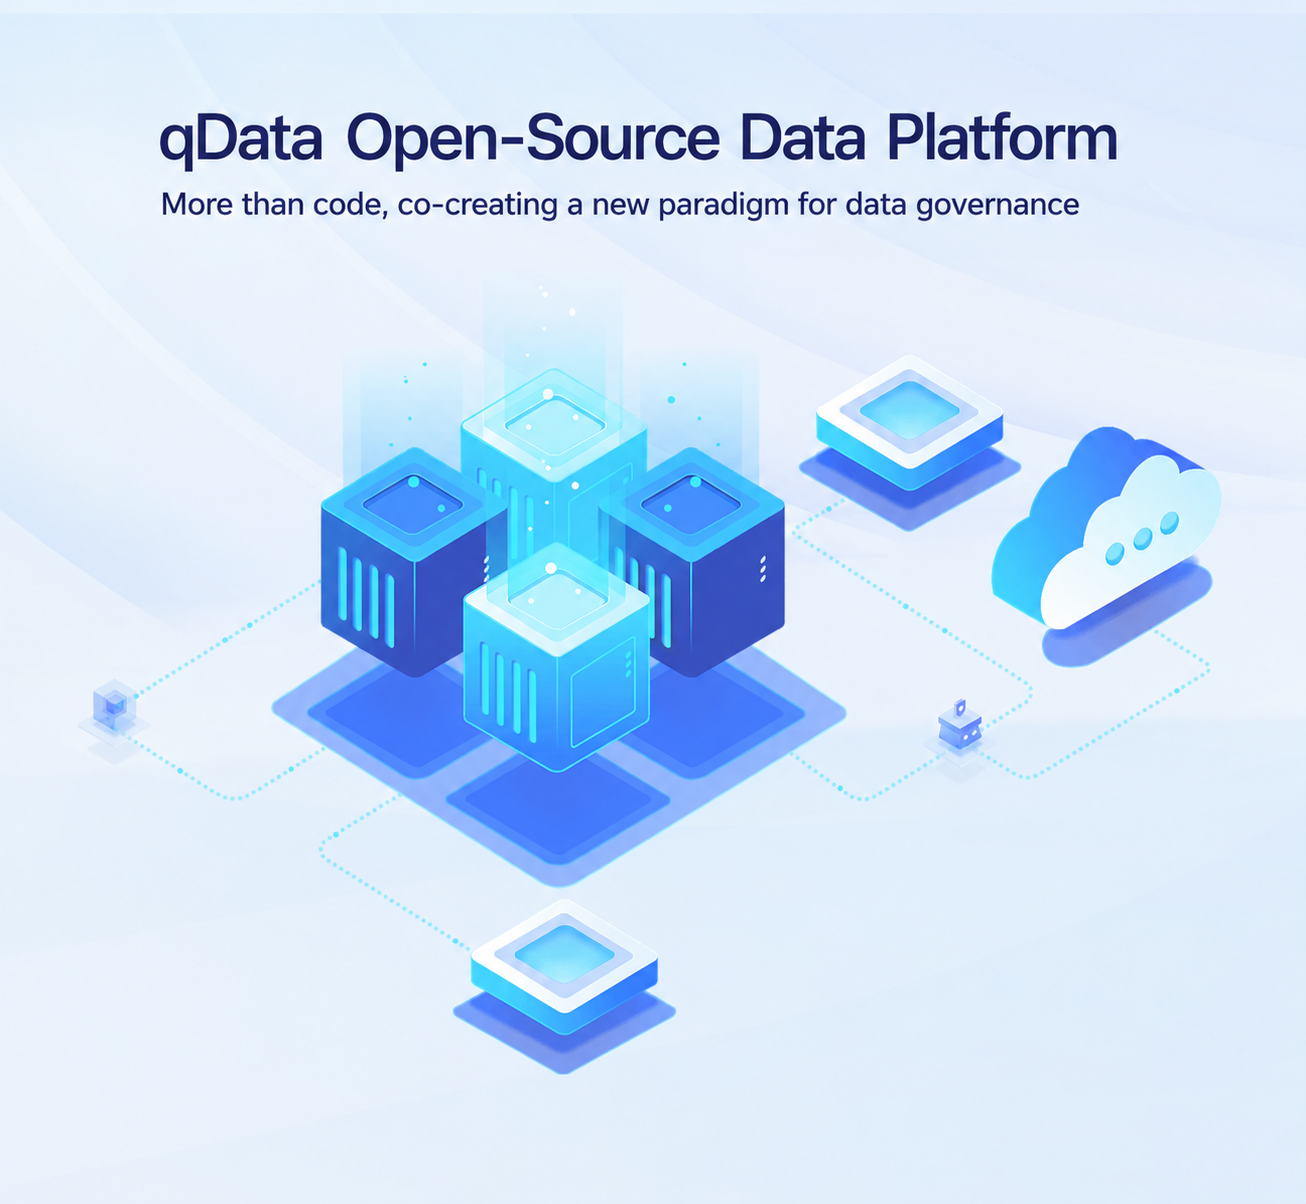
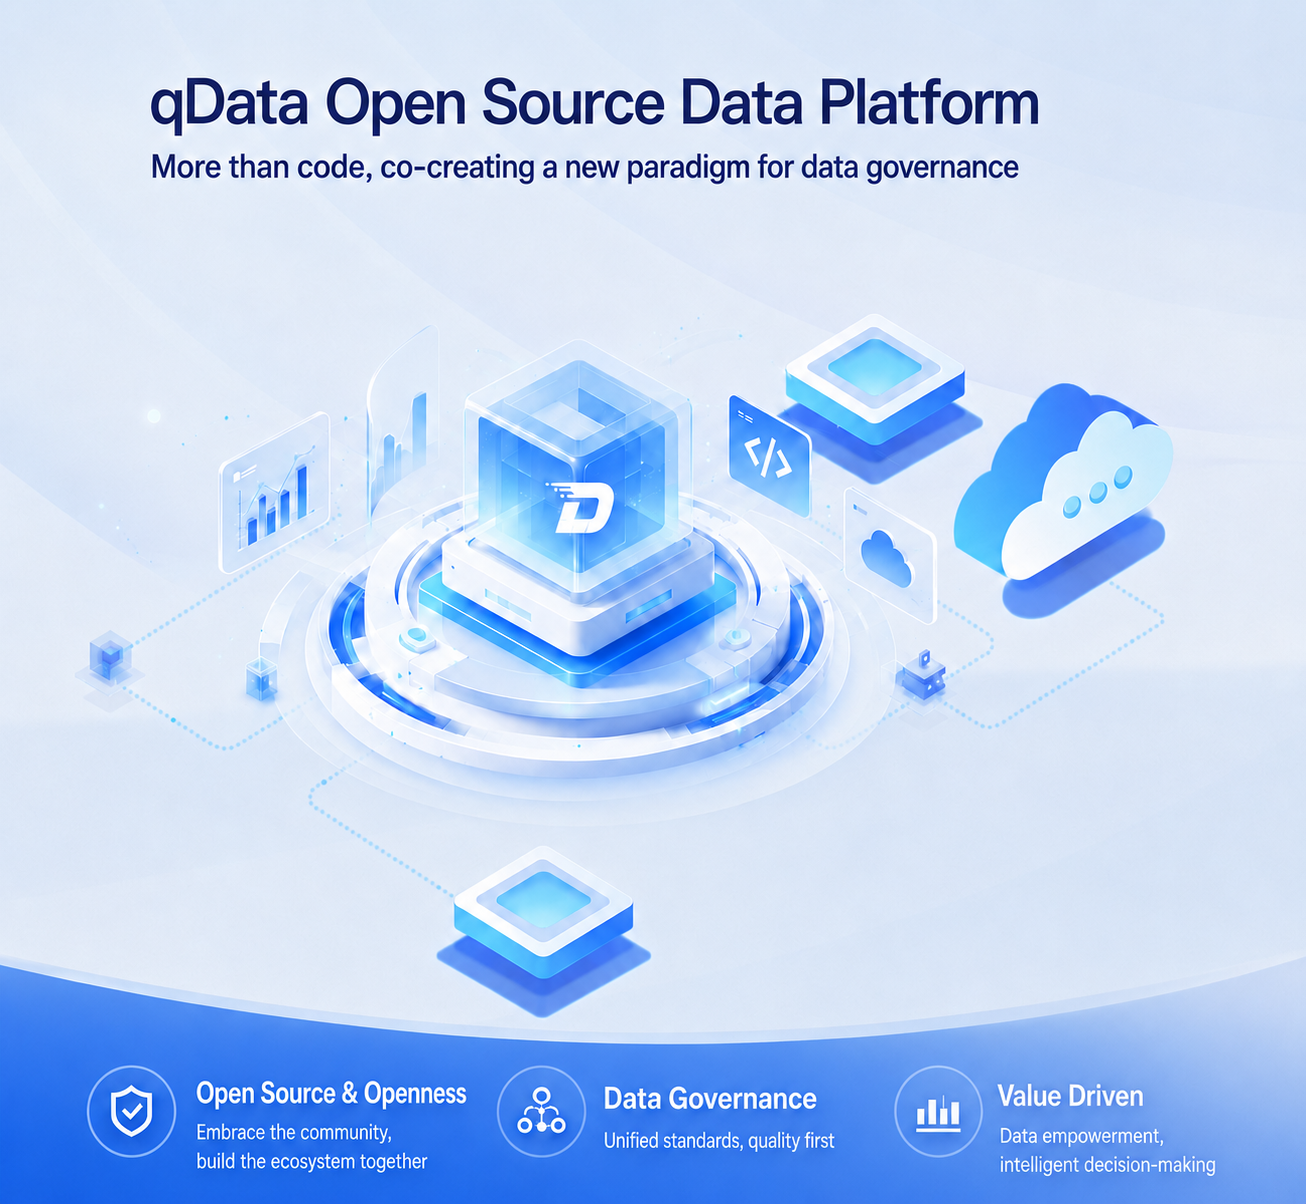
feature/i18n：更换登录banner、调整协议、topNav样式、增加logo动画

diff --git a/qdata-ui/src/layout/components/Sidebar/Logo.vue b/qdata-ui/src/layout/components/Sidebar/Logo.vue
@@ -34,7 +34,8 @@
         to="/"
       >
         <!--        <img v-if="logo" :src="simpLogo" class="sidebar-logo" />-->
-        <img v-if="logo" :src="displaySimpLogo" class="sidebar-logo" />
+        <img v-if="logo" :src="displaySimpLogo" ref="simpLogoRef" class="sidebar-logo"
+             :class="{ 'logo-animate': simpAnimate, 'logo-hover': simpHover }" @mouseenter="replaySimpHover"/>
         <h1
           v-else
           class="sidebar-title"
@@ -50,7 +51,8 @@
       </router-link>
       <router-link v-else key="expand" class="sidebar-logo-link" to="/">
         <!--        <img v-if="logo" :src="logo" class="sidebar-logo" /> -->
-        <img v-if="logo" :src="displayLogo" class="sidebar-logo" />
+        <img v-if="logo" :src="displayLogo" ref="logoRef" class="sidebar-logo"
+             :class="{ 'logo-animate': logoAnimate, 'logo-hover': logoHover }" @mouseenter="replayHover"/>
       </router-link>
     </transition>
   </div>
@@ -66,11 +68,37 @@ import useSettingsStore from "@/store/system/settings";
 import defaultSettings from "@/settings";
 import { getContent } from "@/api/system/system/content";
 
-import { computed } from "vue";
+import {computed, ref as vueRef, nextTick} from "vue";
 
 // 使用 ref 来创建响应式的 logo
 const refLogo = ref(null); // 初始化 logo 为 simpLogo.png
 const refSimpLogo = ref(null); // 初始化 logo 为 simpLogo.png
+
+// 动画控制
+const logoRef = vueRef(null);
+const simpLogoRef = vueRef(null);
+const logoAnimate = vueRef(true);
+const simpAnimate = vueRef(true);
+const logoHover = vueRef(false);
+const simpHover = vueRef(false);
+
+// 鼠标悬浮触发抖动动画（展开状态）
+const replayHover = () => {
+  logoHover.value = false;
+  nextTick(() => {
+    logoRef.value?.offsetWidth;
+    logoHover.value = true;
+  });
+};
+
+// 鼠标悬浮触发抖动动画（收缩状态）
+const replaySimpHover = () => {
+  simpHover.value = false;
+  nextTick(() => {
+    simpLogoRef.value?.offsetWidth;
+    simpHover.value = true;
+  });
+};
 
 const props = defineProps({
   collapse: {
@@ -154,6 +182,15 @@ const sideTheme = computed(() => settingsStore.sideTheme);
       // margin-right: 12px;
       transform: scale(0.7);
       margin-left: -30px;
+
+      &.logo-animate {
+        will-change: transform;
+        animation: logoEntrance 1.2s cubic-bezier(0.25, 0.46, 0.45, 0.94) forwards;
+      }
+
+      &.logo-hover {
+        animation: logoWobble 1s cubic-bezier(0.25, 0.46, 0.45, 0.94) forwards;
+      }
     }
 
     & .sidebar-title {
@@ -175,6 +212,40 @@ const sideTheme = computed(() => settingsStore.sideTheme);
       margin-right: 0px;
       margin-left: 0px;
     }
+  }
+}
+
+/* 入场动画：阶段1 淡入滑入+缩放 → 阶段2 缩放到位 → 阶段3 皮球回弹 */
+@keyframes logoEntrance {
+  /* 阶段1：从左淡入滑入，同时从小到大缩放 */
+  0% {
+    transform: translateX(-200px) scale(0.3);
+    opacity: 0;
+  }
+  35% {
+    transform: translateX(0) scale(0.4);
+    opacity: 1;
+  }
+  100% {
+    transform: translateY(0) scale(0.7);
+    opacity: 1;
+  }
+}
+
+/* 悬浮抖动动画：右往上左往下抖动三下 */
+@keyframes logoWobble {
+  /* 阶段1：从左淡入滑入，同时从小到大缩放 */
+  0% {
+    transform: translateX(-200px) scale(0.3);
+    opacity: 0;
+  }
+  35% {
+    transform: translateX(0) scale(0.4);
+    opacity: 1;
+  }
+  100% {
+    transform: translateY(0) scale(0.7);
+    opacity: 1;
   }
 }
 </style>

diff --git a/qdata-ui/src/views/sys/index.vue b/qdata-ui/src/views/sys/index.vue
@@ -174,7 +174,7 @@
     </el-row>
 
     <!-- License 协议弹窗 -->
-<!--    <el-dialog
+    <el-dialog
       v-model="licenseDialogVisible"
       :title="td('common.license.title')"
       :close-on-click-modal="false"
@@ -185,9 +185,9 @@
         <pre>{{ td('common.license.text') }}</pre>
       </div>
       <template #footer>
-        <el-button type="primary" @click="handleLicenseClose">{{ td('common.button.confirm') }}</el-button>
+        <el-button type="primary" @click="handleLicenseClose">{{ td('common.button.aware') }}</el-button>
       </template>
-    </el-dialog>-->
+    </el-dialog>
   </div>
 </template>
 
@@ -1240,6 +1240,10 @@ onMounted(() => {
       display: none;
     }
   }
+
+  :deep(.el-dialog__body) {
+    padding: 20px !important;
+  }
 }
 
 .module-4,
@@ -1883,10 +1887,8 @@ onMounted(() => {
 }
 
 .license-content {
-  padding: 16px;
-  background: #f8f9fa;
+  background: white;
   border-radius: 4px;
-  border: 1px solid #e8e8e8;
 
   pre {
     white-space: pre-wrap;

diff --git a/qdata-ui/src/components/TopNav/index.vue b/qdata-ui/src/components/TopNav/index.vue
@@ -433,6 +433,7 @@ defineExpose({
   padding: 0 15px !important;
   margin: 0 10px !important;
   border-radius: 5px;
+  font-weight: bold !important;
 }
 
 /* sub-menu item */
@@ -445,6 +446,7 @@ defineExpose({
   padding: 0 15px !important;
   margin: 0 10px !important;
   border-radius: 5px;
+  font-weight: bold !important;
 }
 
 .topmenu-container.el-menu--horizontal > .el-menu-item.is-active,
@@ -478,6 +480,7 @@ defineExpose({
 .el-menu--horizontal .el-menu .el-menu-item {
   height: 40px !important;
   line-height: 40px !important;
+  font-weight: bold !important;
 
   .svg-icon {
     margin-right: 10px;

diff --git a/qdata-ui/src/views/sys/login.vue b/qdata-ui/src/views/sys/login.vue
@@ -297,7 +297,7 @@ const loginimglist = ref([]);
 
 const getBackgroundStyle = (item) => {
     return {
-        background: `url(${item.image}) center center / cover no-repeat`,
+        background: `url(${item.image}) center center / 100% 100% no-repeat`,
     };
 };
 

diff --git a/qdata-ui/src/locales/ja-JP/common/index.js b/qdata-ui/src/locales/ja-JP/common/index.js
@@ -54,7 +54,8 @@ export default {
     update: '編集',
     upload: 'アップロード',
     neverShow: '今後表示しない',
-    view: '表示'
+    view: '表示',
+    aware:'承知しました'
   },
   error: {
     code401: '401エラー！',

diff --git a/qdata-ui/src/locales/zh-CN/common/index.js b/qdata-ui/src/locales/zh-CN/common/index.js
@@ -54,7 +54,8 @@ export default {
     update: '修改',
     upload: '上传',
     neverShow: '不再展示',
-    view: '查看'
+    view: '查看',
+    aware:'我已知晓'
   },
   error: {
     code401: '认证失败，无法访问系统资源',

diff --git a/qdata-ui/src/locales/en-US/common/index.js b/qdata-ui/src/locales/en-US/common/index.js
@@ -54,7 +54,8 @@ export default {
     update: 'Edit',
     upload: 'Upload',
     neverShow: 'Don\'t Show Again',
-    view: 'View'
+    view: 'View',
+    aware:'I am aware'
   },
   error: {
     code401: '401 Error!',
